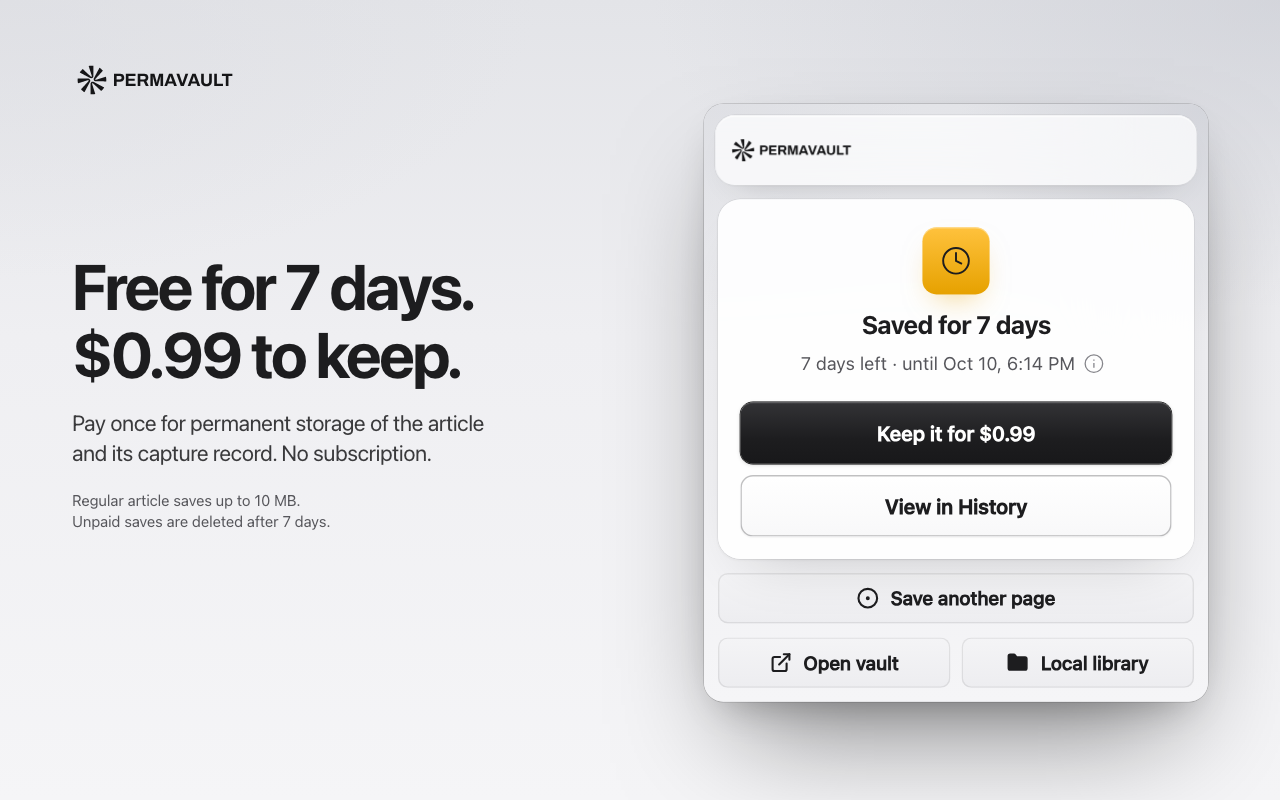
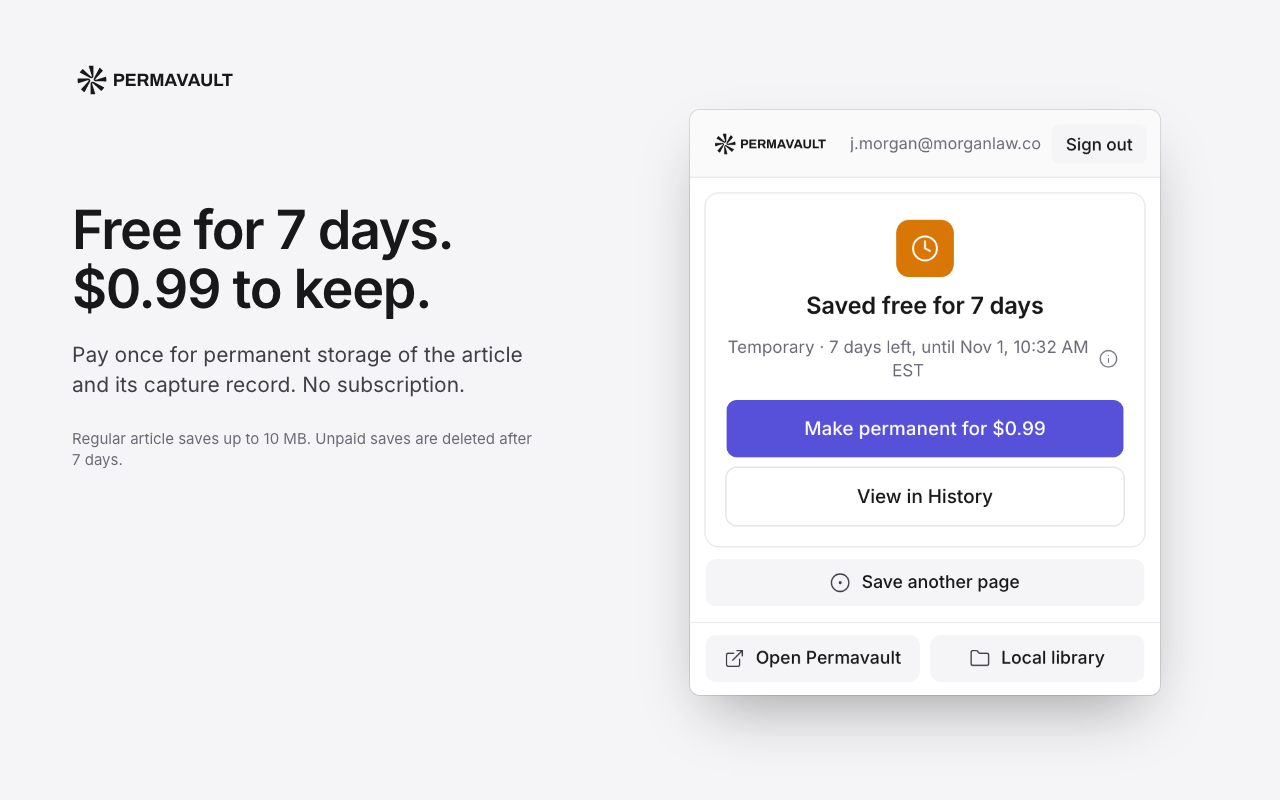
docs(store): Chrome Web Store images in Carton [PV-582]
Approved by Alex on 25 Oct 2026. Popups from the shipped 0.2.6 build,
screenshot 2 from the real Carton app. Not uploaded to the Store.

Changed region(s): [[0.5312, 0.0, 1.0, 0.9688], [0.0625, 0.25, 0.4062, 0.5938], [0.0625, 0.625, 0.25, 0.6562]]

diff --git a/store/SCREENSHOTS.md b/store/SCREENSHOTS.md
@@ -13,8 +13,8 @@ Upload in this order. Every file is RGB PNG at the exact size the Store asks for
 | `marquee.png` | 1400×560 | Keep the web pages your work depends on. |
 | `icon.png` | 128×128 (96 px artwork, transparent padding) | Store icon |
 
-The set uses the graphite redesign (chosen by Alex on 24 Oct 2026, PV-207). Its popup is the redesigned popup with the decided wording from PR #9, and screenshot 2 shows the redesigned web app. Alex chose to upload it before the extension and the app are restyled, accepting that the images show a look the installed extension does not have yet and that Google may reject the listing update for that reason. The store icon is the graphite icon; the package icon in `assets/` changes with the restyle.
+The set uses the Carton design (PV-582, approved by Alex on 25 Oct 2026). Its popups are screenshots of the shipped Carton extension, version 0.2.6, and screenshot 2 is the real Carton web app. The Private screenshot, the small promo tile and the store icon use Night navy, matching the toolbar icon Alex chose (PV-588). The headlines are the set Alex picked on 24 Oct 2026, unchanged. Not uploaded yet: the Store listing still shows the graphite set until the next submission (PV-207).
 
-The sample page is fictional (The Riverton Ledger, `rivertonledger.example`). Editable sources: the main project's private `internal/design/row-P/` (`build_PF.py`), and the "Chrome Web Store" page of the Design canvas.
+The sample page is fictional (The Riverton Ledger, `rivertonledger.example`). In screenshot 2 the capture appears as a PDF of that article. Editable sources: the main project's private `internal/design/row-P/` (`build_PC.py`, `carton-src/`, `tools/export_pc.mjs`).
 
 These images do not replace installed-release acceptance tests. Submission, approval and public availability must be verified separately in the publisher console.
